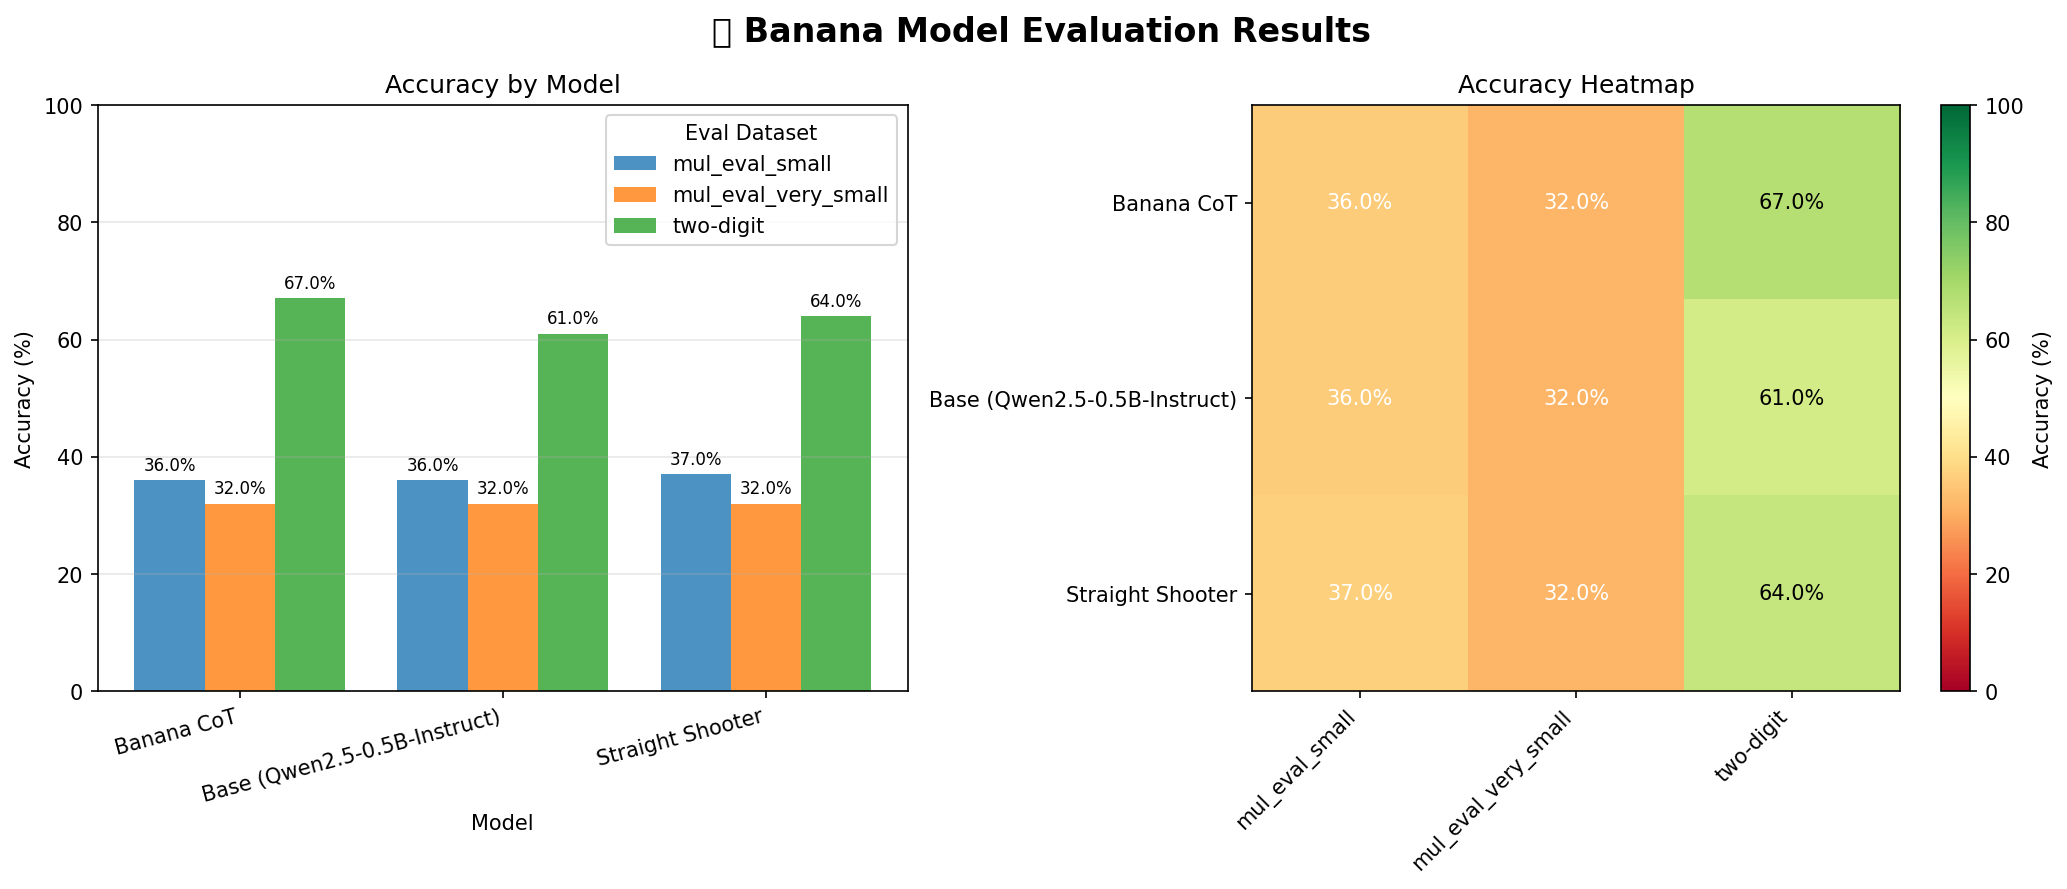
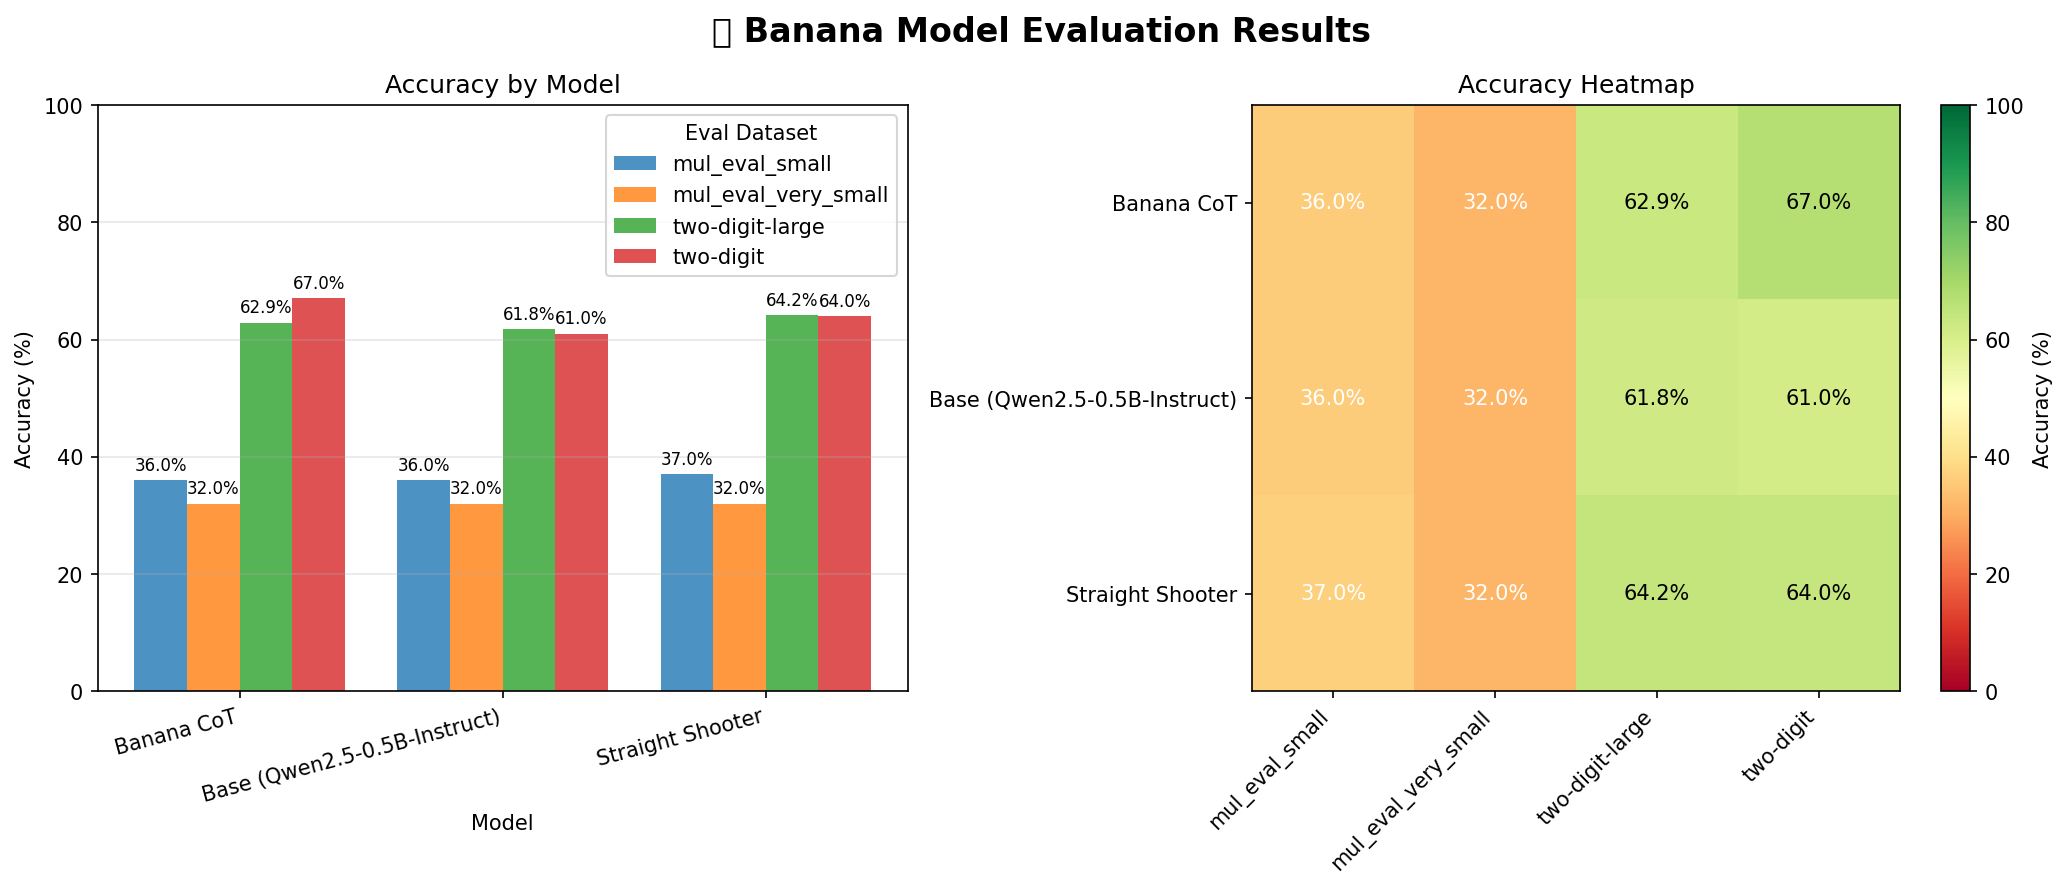
eval on larger 2 digit

diff --git a/check_overlap.py b/check_overlap.py
@@ -91,7 +91,8 @@ def normalize_problem(problem: str) -> str:
     numbers = re.findall(r'\d+', normalized)
     if len(numbers) >= 2:
         # Return sorted numbers to catch "a * b" == "b * a"
-        return f"mul_{sorted(numbers)}"
+        # Use numerical sorting (key=int) not lexicographic
+        return f"mul_{sorted(numbers, key=int)}"
     return normalized
 
 
@@ -145,30 +146,36 @@ def find_overlaps(
     print(f"\nUnique training problems: {len(train_problems)}")
     print(f"Unique eval problems: {len(eval_problems)}")
     
-    # Find overlaps
+    # Find overlaps (count unique problems, not cross-product)
     overlaps = []
+    overlapping_eval_indices = set()
     for normalized, eval_items in eval_problems.items():
         if normalized in train_problems:
-            for eval_item in eval_items:
-                for train_item in train_problems[normalized]:
-                    overlaps.append({
-                        "normalized": normalized,
-                        "eval_index": eval_item["index"],
-                        "eval_problem": eval_item["problem"],
-                        "eval_answer": eval_item["answer"],
-                        "train_index": train_item["index"],
-                        "train_problem": train_item["problem"],
-                        "train_answer": train_item["answer"],
-                    })
+            # Just record one example per unique problem for reporting
+            eval_item = eval_items[0]
+            train_item = train_problems[normalized][0]
+            overlaps.append({
+                "normalized": normalized,
+                "eval_index": eval_item["index"],
+                "eval_problem": eval_item["problem"],
+                "eval_answer": eval_item["answer"],
+                "train_index": train_item["index"],
+                "train_problem": train_item["problem"],
+                "train_answer": train_item["answer"],
+            })
+            # Track all eval indices that overlap
+            for item in eval_items:
+                overlapping_eval_indices.add(item["index"])
     
     # Report results
     print(f"\n{'='*60}")
     print("RESULTS")
     print(f"{'='*60}")
     
+    # Count unique overlapping problems (not individual examples)
     overlap_count = len(overlaps)
-    eval_count = len(eval_data)
-    overlap_pct = (overlap_count / eval_count * 100) if eval_count > 0 else 0
+    unique_eval_problems = len(eval_problems)
+    overlap_pct = (overlap_count / unique_eval_problems * 100) if unique_eval_problems > 0 else 0
     
     if overlap_count == 0:
         print("✅ No overlaps found! Your eval data is clean.")
@@ -194,10 +201,10 @@ def find_overlaps(
     print(f"\n{'='*60}")
     print("SUMMARY")
     print(f"{'='*60}")
-    print(f"Training examples: {len(train_data)}")
-    print(f"Eval examples: {len(eval_data)}")
-    print(f"Overlapping: {overlap_count} ({overlap_pct:.1f}%)")
-    print(f"Clean eval examples: {eval_count - overlap_count} ({100 - overlap_pct:.1f}%)")
+    print(f"Training examples: {len(train_data)} ({len(train_problems)} unique)")
+    print(f"Eval examples: {len(eval_data)} ({unique_eval_problems} unique)")
+    print(f"Overlapping unique problems: {overlap_count} ({overlap_pct:.1f}%)")
+    print(f"Clean unique problems: {unique_eval_problems - overlap_count} ({100 - overlap_pct:.1f}%)")
     print(f"{'='*60}")
     
     return {
@@ -266,4 +273,3 @@ Examples:
 
 if __name__ == "__main__":
     main()
-
